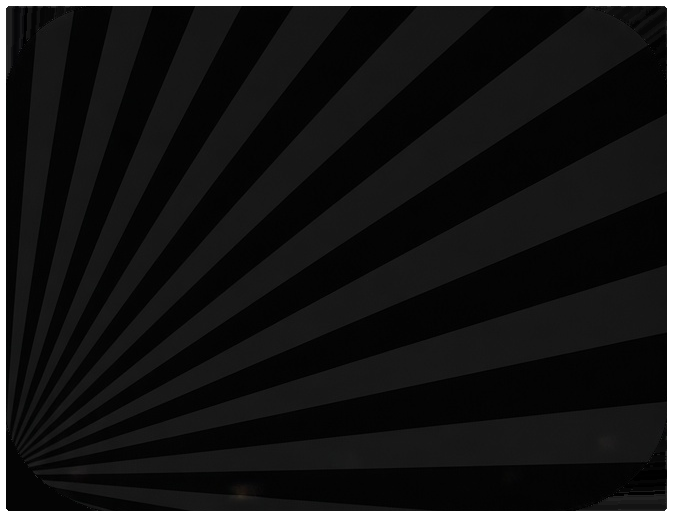
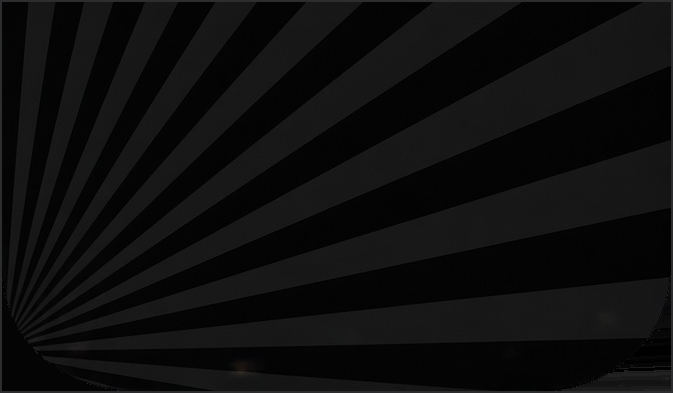
Match Aviator panel size and border to the reference site exactly
Measured the reference screenshot's panel directly: it spans ~96.6%
of screen width with a shorter aspect ratio (~0.58 height/width) than
our first crop, and its border is a thin, dim gray line (~45/255
brightness), not a bold white one. Cropped our panel art to match
that aspect ratio and replaced the bold border with a thin, subtle
one, then updated the screen's sizing constants to match.

Claude-Session: https://claude.ai/code/session_01Tss6bhFaznLAr7Q44emufU

Changed region(s): [[0.0, 0.0, 1.0, 1.0], [0.0936, 0.8855, 0.1248, 0.916]]

diff --git a/mobile/src/screens/AviatorScreen.tsx b/mobile/src/screens/AviatorScreen.tsx
@@ -25,19 +25,13 @@ const STEPPER_LAYOUT_2 = {
   track: { left: 75 / 688, top: 388 / 572, width: 160 / 688, height: 44 / 572 },
 };
 
-// Panel background asset's own aspect ratio (cropped to just the rounded
-// rays panel, corners made transparent) — used so scaling it up keeps its
-// proportions instead of stretching.
-const PANEL_ASPECT = 517 / 673;
+// Panel background asset's own aspect ratio and on-screen width, matched
+// to the reference Aviator site's panel: ~96.6% of screen width, and a
+// shorter/wider aspect ratio than our first crop (measured directly off a
+// reference screenshot: panel width/height ≈ 1237/722 px there).
+const PANEL_ASPECT = 393 / 673;
 const SCREEN_WIDTH = Dimensions.get('window').width;
-// Base width matches the app's usual 16px-per-side card margin, sized up
-// another ~10% per the requested layout — but capped so it can never
-// exceed the physical screen width (minus a hair of safety margin), since
-// anything wider than the device itself just gets hard-clipped by the
-// screen edge, cutting the border we just added. On most phone widths
-// this "*1.21" would already overflow, so this cap is what actually
-// determines the size: full edge-to-edge, the largest it can safely go.
-const PANEL_WIDTH = Math.min(SCREEN_WIDTH - 4, (SCREEN_WIDTH - 32) * 1.21);
+const PANEL_WIDTH = SCREEN_WIDTH * 0.966;
 const PANEL_HEIGHT = PANEL_WIDTH * PANEL_ASPECT;
 
 // Bet/Auto toggle + stake stepper + Bet button block — same width as the
